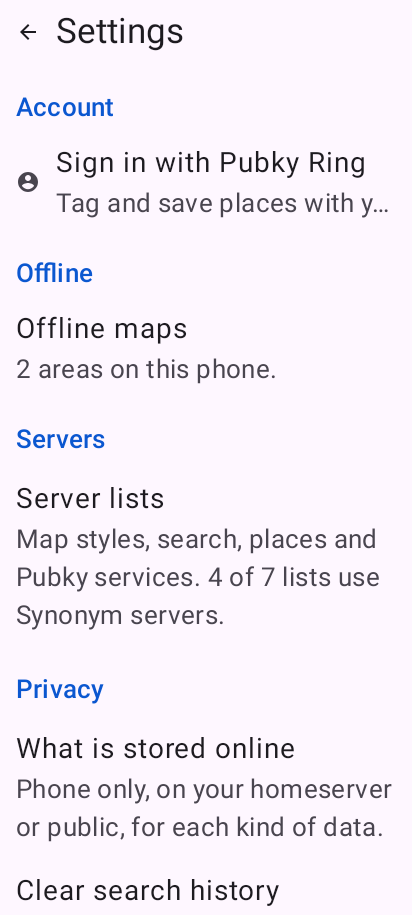
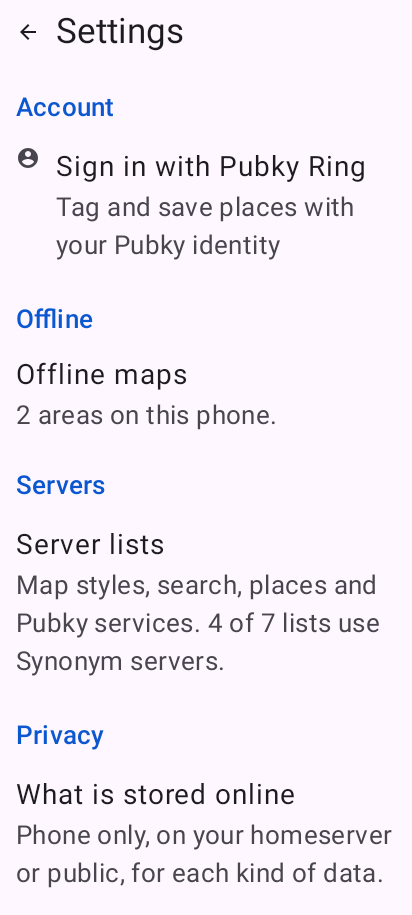
fix(settings): the account row's subtitle wraps at a large font size
At 200 % font the Settings account row cut 'Tag and save places with your
Pubky identity' to 'Tag and save places with y…' while every other Settings
row wraps. The supporting line now wraps, the headline takes up to 2 lines.
AccountSettingsRowTest checks that no line is cut at 200 % on a phone.

diff --git a/androidApp/src/test/kotlin/to/pubky/maps/android/AccountSettingsRowTest.kt b/androidApp/src/test/kotlin/to/pubky/maps/android/AccountSettingsRowTest.kt
@@ -1,0 +1,77 @@
+package to.pubky.maps.android
+
+import androidx.compose.runtime.CompositionLocalProvider
+import androidx.compose.ui.platform.LocalDensity
+import androidx.compose.ui.semantics.SemanticsActions
+import androidx.compose.ui.test.junit4.createComposeRule
+import androidx.compose.ui.test.onNodeWithText
+import androidx.compose.ui.text.TextLayoutResult
+import androidx.compose.ui.unit.Density
+import org.junit.Assert.assertFalse
+import org.junit.Rule
+import org.junit.Test
+import org.junit.runner.RunWith
+import org.robolectric.RobolectricTestRunner
+import org.robolectric.annotation.Config
+import org.robolectric.annotation.GraphicsMode
+import to.pubky.maps.account.AccountSettingsRow
+import to.pubky.maps.account.AccountState
+import to.pubky.maps.account.AccountUser
+import to.pubky.maps.account.Connection
+import to.pubky.maps.cache.CachedAccount
+import to.pubky.maps.ui.PubkyMapsTheme
+
+/**
+ * The account row of Settings shows its whole text at Android's largest font size (200 %) on a phone,
+ * as the other Settings rows do: no line of it ends in "…". Native graphics, so text is measured with
+ * real fonts.
+ */
+@RunWith(RobolectricTestRunner::class)
+@GraphicsMode(GraphicsMode.Mode.NATIVE)
+@Config(qualifiers = "w412dp-h915dp")
+class AccountSettingsRowTest {
+    @get:Rule
+    val compose = createComposeRule()
+
+    private val user = AccountUser("8pinxxgqs41n4aididenw5apqp1urfmzdztr8jt4abrkdn435ewo", "Ada Lovelace")
+    private val cached = CachedAccount(user.publicKey, user.name, refreshedAt = 1, tags = emptyList(), bookmarks = emptyList())
+
+    private fun showAtLargeFont(state: AccountState) {
+        compose.setContent {
+            val density = LocalDensity.current
+            CompositionLocalProvider(LocalDensity provides Density(density.density, fontScale = 2f)) {
+                PubkyMapsTheme { AccountSettingsRow(state = state, onOpen = {}) }
+            }
+        }
+    }
+
+    /** Each of [texts] is on the row and laid out without cutting a line. */
+    private fun assertShownWhole(vararg texts: String) {
+        texts.forEach { text ->
+            val node = compose.onNodeWithText(text, useUnmergedTree = true).fetchSemanticsNode()
+            val layouts = mutableListOf<TextLayoutResult>()
+            node.config[SemanticsActions.GetTextLayoutResult].action?.invoke(layouts)
+            // Not hasVisualOverflow: it reports a one-line ellipsized text as too wide even when it fits.
+            val layout = layouts.single()
+            assertFalse("'$text' is cut", (0 until layout.lineCount).any(layout::isLineEllipsized))
+        }
+    }
+
+    @Test
+    fun signedOutRowShowsWhatSigningInIsFor() {
+        showAtLargeFont(AccountState.SignedOut())
+        assertShownWhole("Sign in with Pubky Ring", "Tag and save places with your Pubky identity")
+    }
+
+    @Test
+    fun offlineSignedInRowSaysTheHomeserverIsUnreachable() {
+        showAtLargeFont(AccountState.SignedIn(user, cached, Connection.Offline))
+        assertShownWhole("Ada Lovelace", "pubky8pin…5ewo · homeserver unreachable")
+    }
+
+    @Test
+    fun unavailableRowSaysWhy() {
+        showAtLargeFont(AccountState.Unavailable("no library"))
+        assertShownWhole("Account", "Sign-in is not available on this phone")
+    }
+}

diff --git a/shared/src/commonMain/kotlin/to/pubky/maps/account/AccountScreen.kt b/shared/src/commonMain/kotlin/to/pubky/maps/account/AccountScreen.kt
@@ -449,10 +449,10 @@ fun AccountSettingsRow(
                 Icon(AppIcons.AccountCircle, contentDescription = null)
             }
         },
-        headlineContent = { Text(headline, maxLines = 1, overflow = TextOverflow.Ellipsis) },
-        supportingContent = {
-            Text(supporting, maxLines = 1, overflow = TextOverflow.Ellipsis)
-        },
+        // Both lines wrap like the other Settings rows, so the reason to sign in shows whole at large
+        // font sizes; the headline is capped at two lines because a profile name can be of any length.
+        headlineContent = { Text(headline, maxLines = 2, overflow = TextOverflow.Ellipsis) },
+        supportingContent = { Text(supporting) },
         modifier = modifier.clickable(onClick = onOpen),
     )
 }
